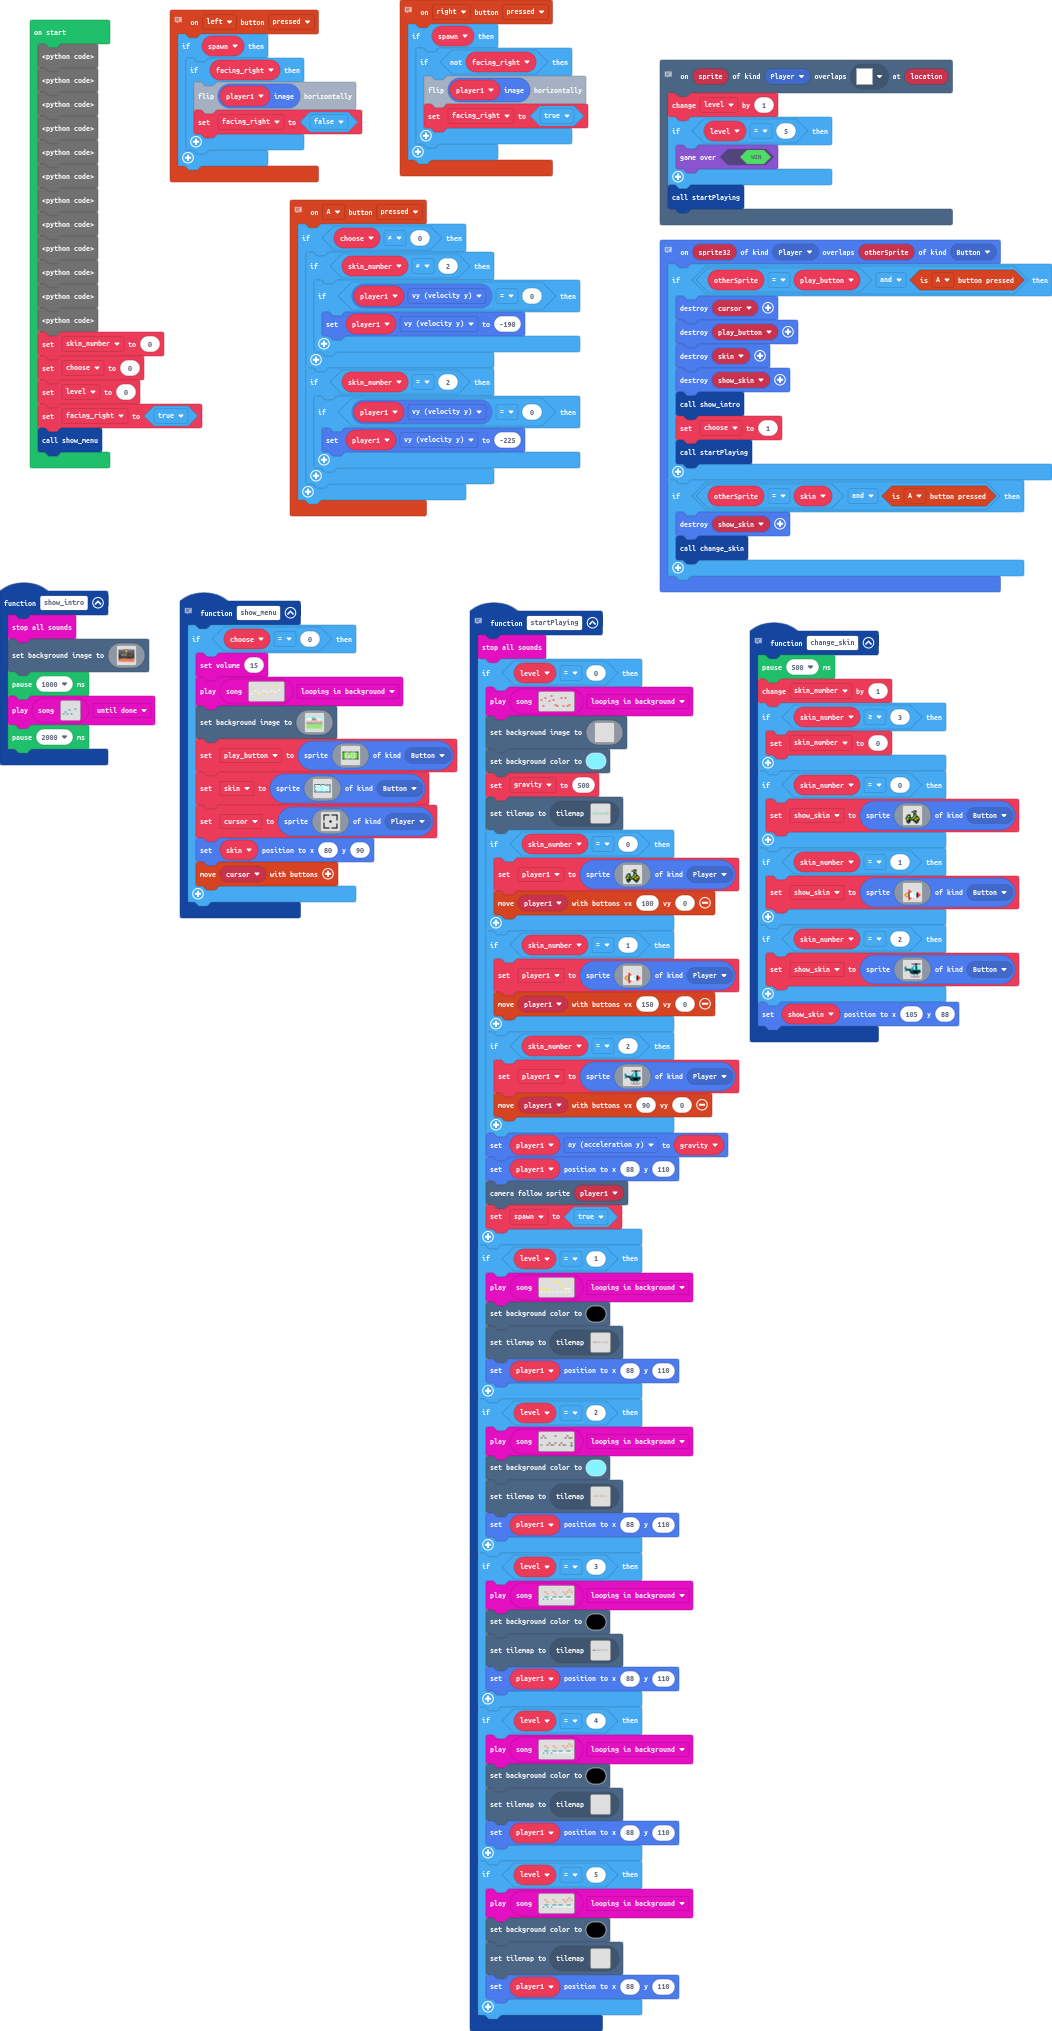
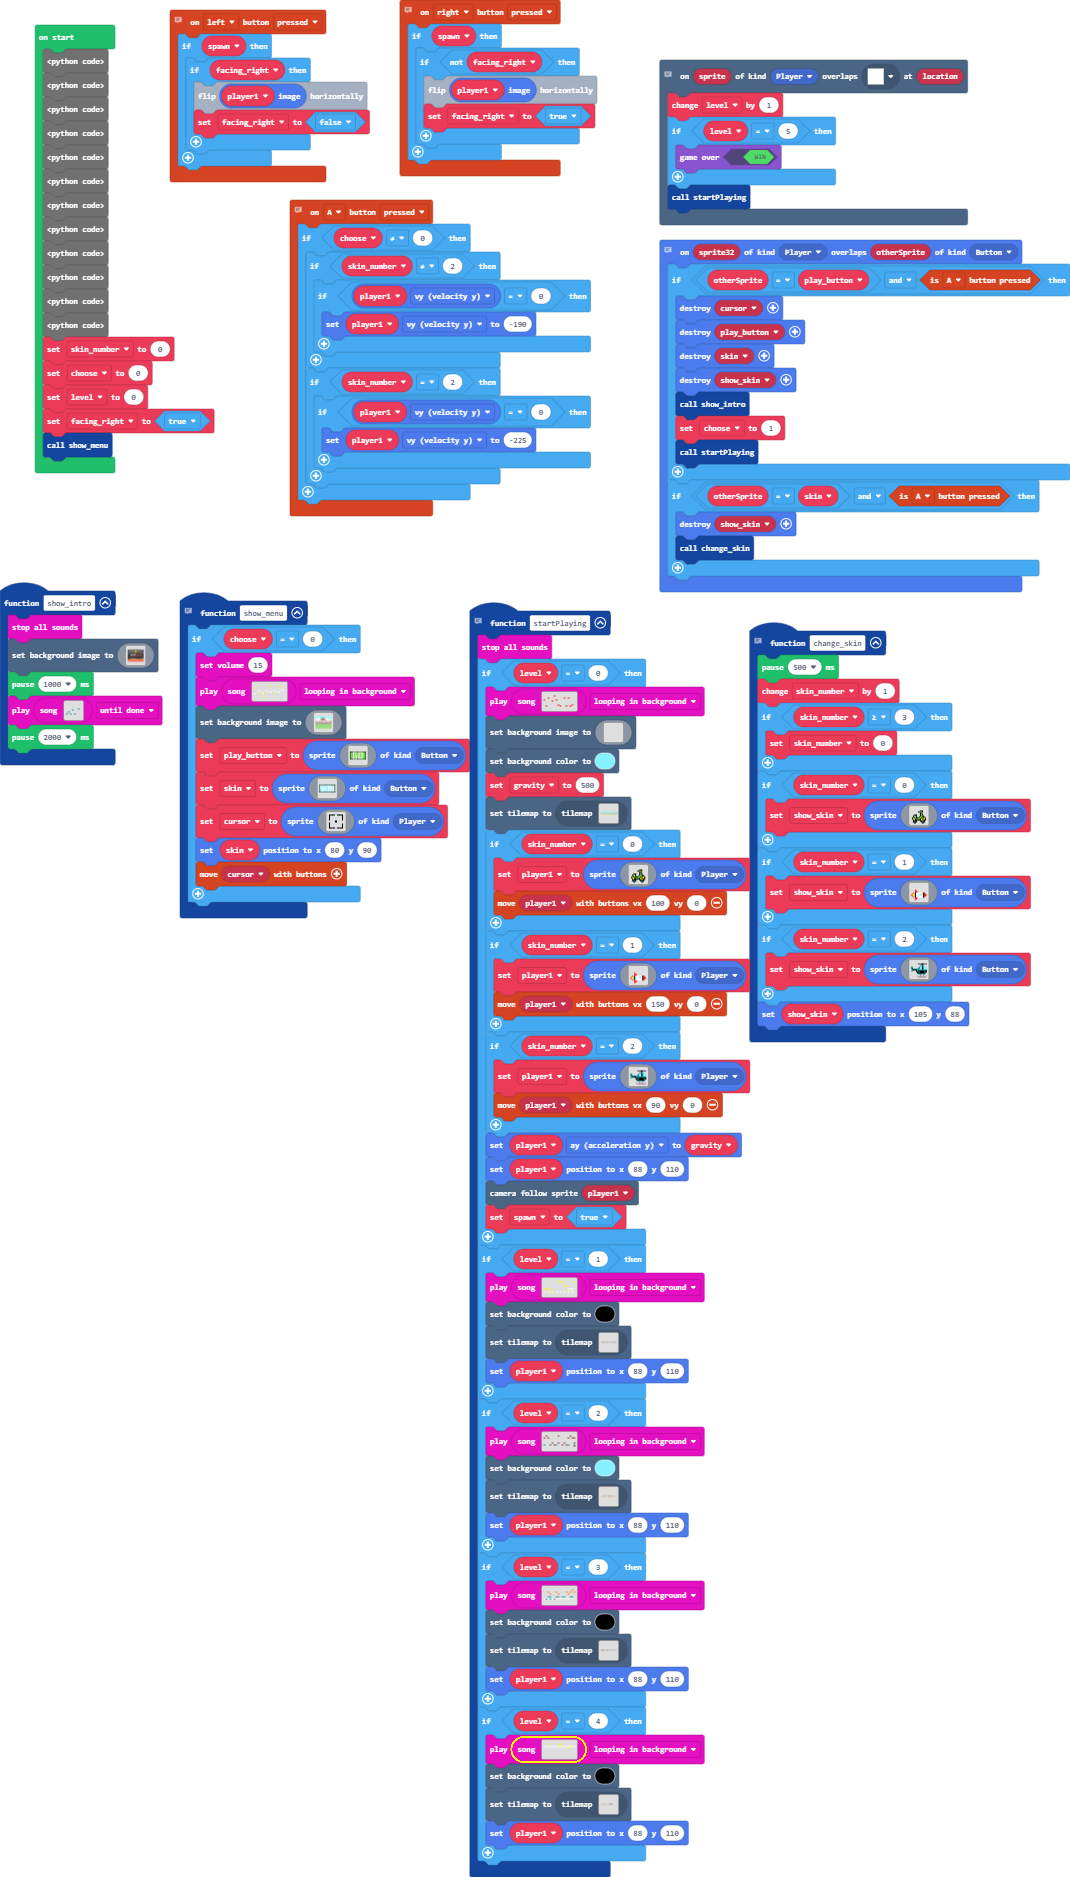
fixes and song

diff --git a/images.g.ts b/images.g.ts
@@ -494,7 +494,9 @@ f4444444444444444444444444444444444444444444444444444444444444444444444444444444
             case "song5":
[1 lines of base64/hex data omitted]
             case "song6":
[2 lines of base64/hex data omitted]
+            case "song7":
[1 lines of base64/hex data omitted]
         }
         return null;
     })

diff --git a/main.ts b/main.ts
@@ -262,18 +262,7 @@ function startPlaying() {
     
     if (level == 4) {
         music.play(music.createSong(assets.song`
-                pacman_theme
-            `), music.PlaybackMode.LoopingInBackground)
-        scene.setBackgroundColor(15)
-        tiles.setCurrentTilemap(tilemap`
-            level04
-        `)
-        player1.setPosition(88, 110)
-    }
-    
-    if (level == 5) {
-        music.play(music.createSong(assets.song`
-                pacman_theme
+                final_theme1
             `), music.PlaybackMode.LoopingInBackground)
         scene.setBackgroundColor(15)
         tiles.setCurrentTilemap(tilemap`

diff --git a/main.py b/main.py
@@ -241,17 +241,7 @@ def startPlaying():
         player1.set_position(88, 110)
     if level == 4:
         music.play(music.create_song(assets.song("""
-                pacman_theme
-            """)),
-            music.PlaybackMode.LOOPING_IN_BACKGROUND)
-        scene.set_background_color(15)
-        tiles.set_current_tilemap(tilemap("""
-            level04
-        """))
-        player1.set_position(88, 110)
-    if level == 5:
-        music.play(music.create_song(assets.song("""
-                pacman_theme
+                final_theme1
             """)),
             music.PlaybackMode.LOOPING_IN_BACKGROUND)
         scene.set_background_color(15)
